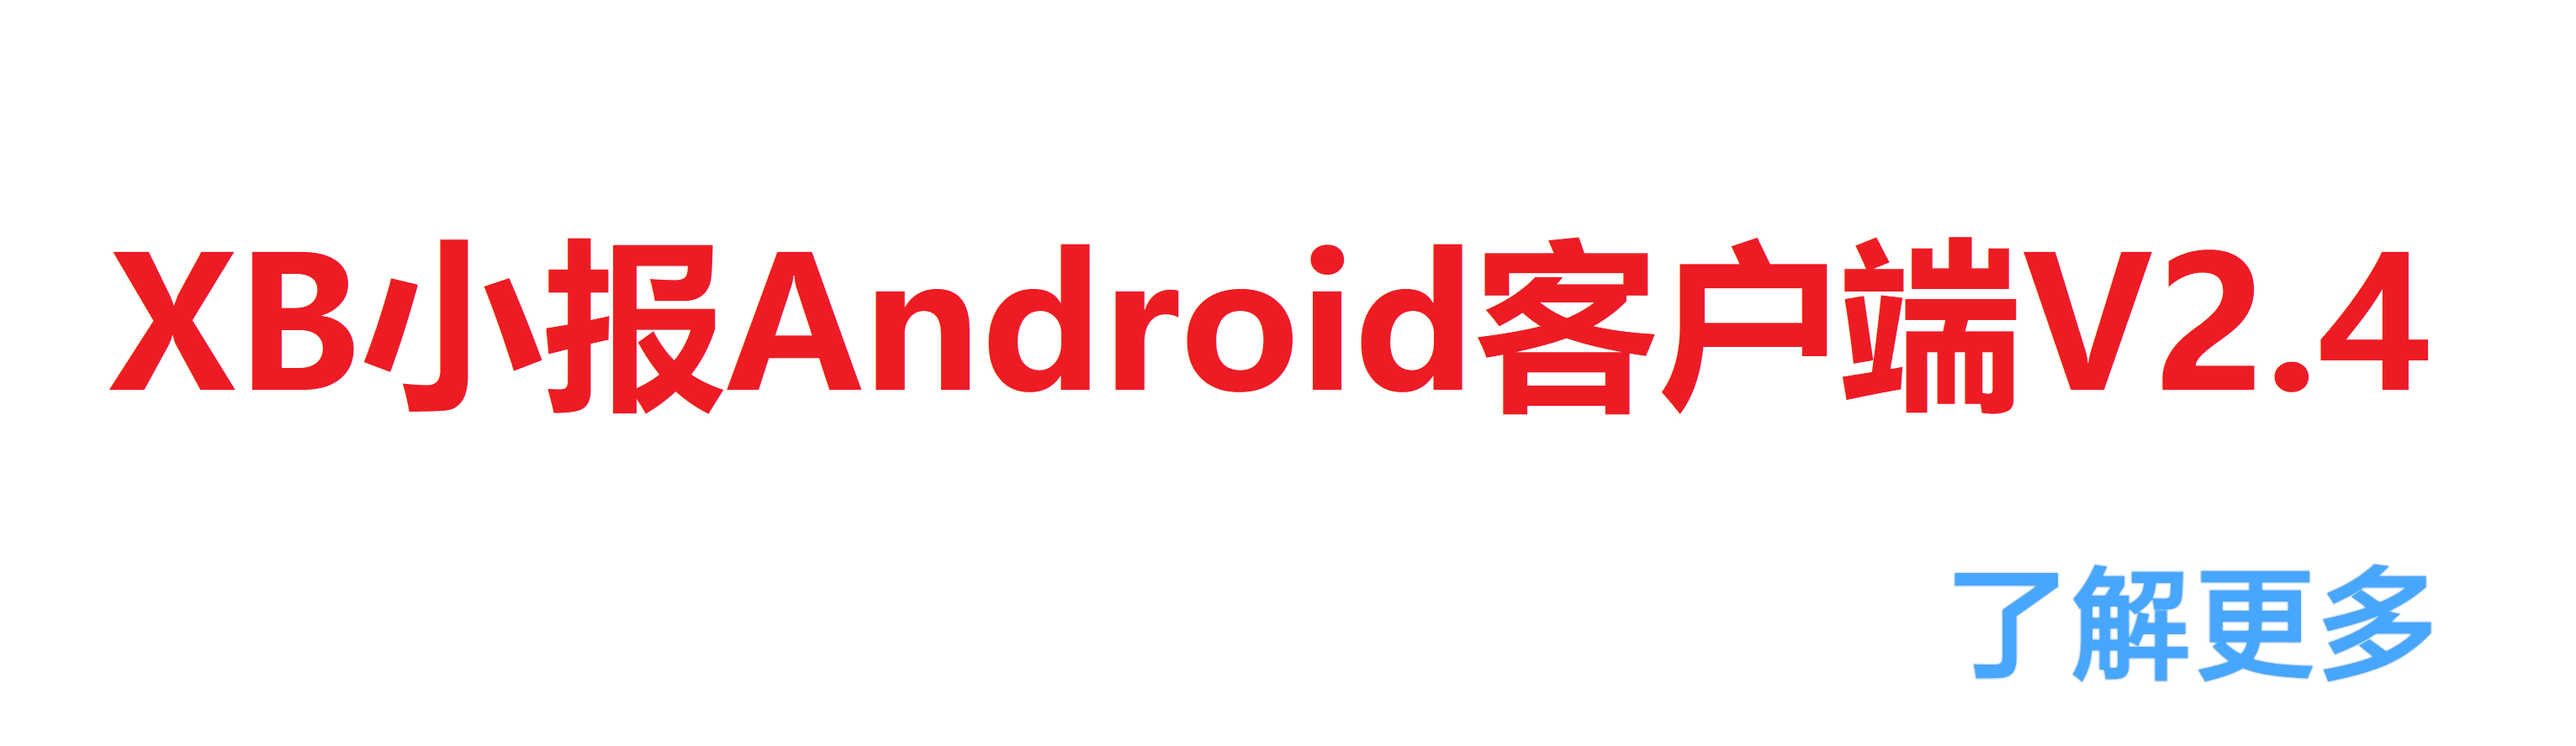
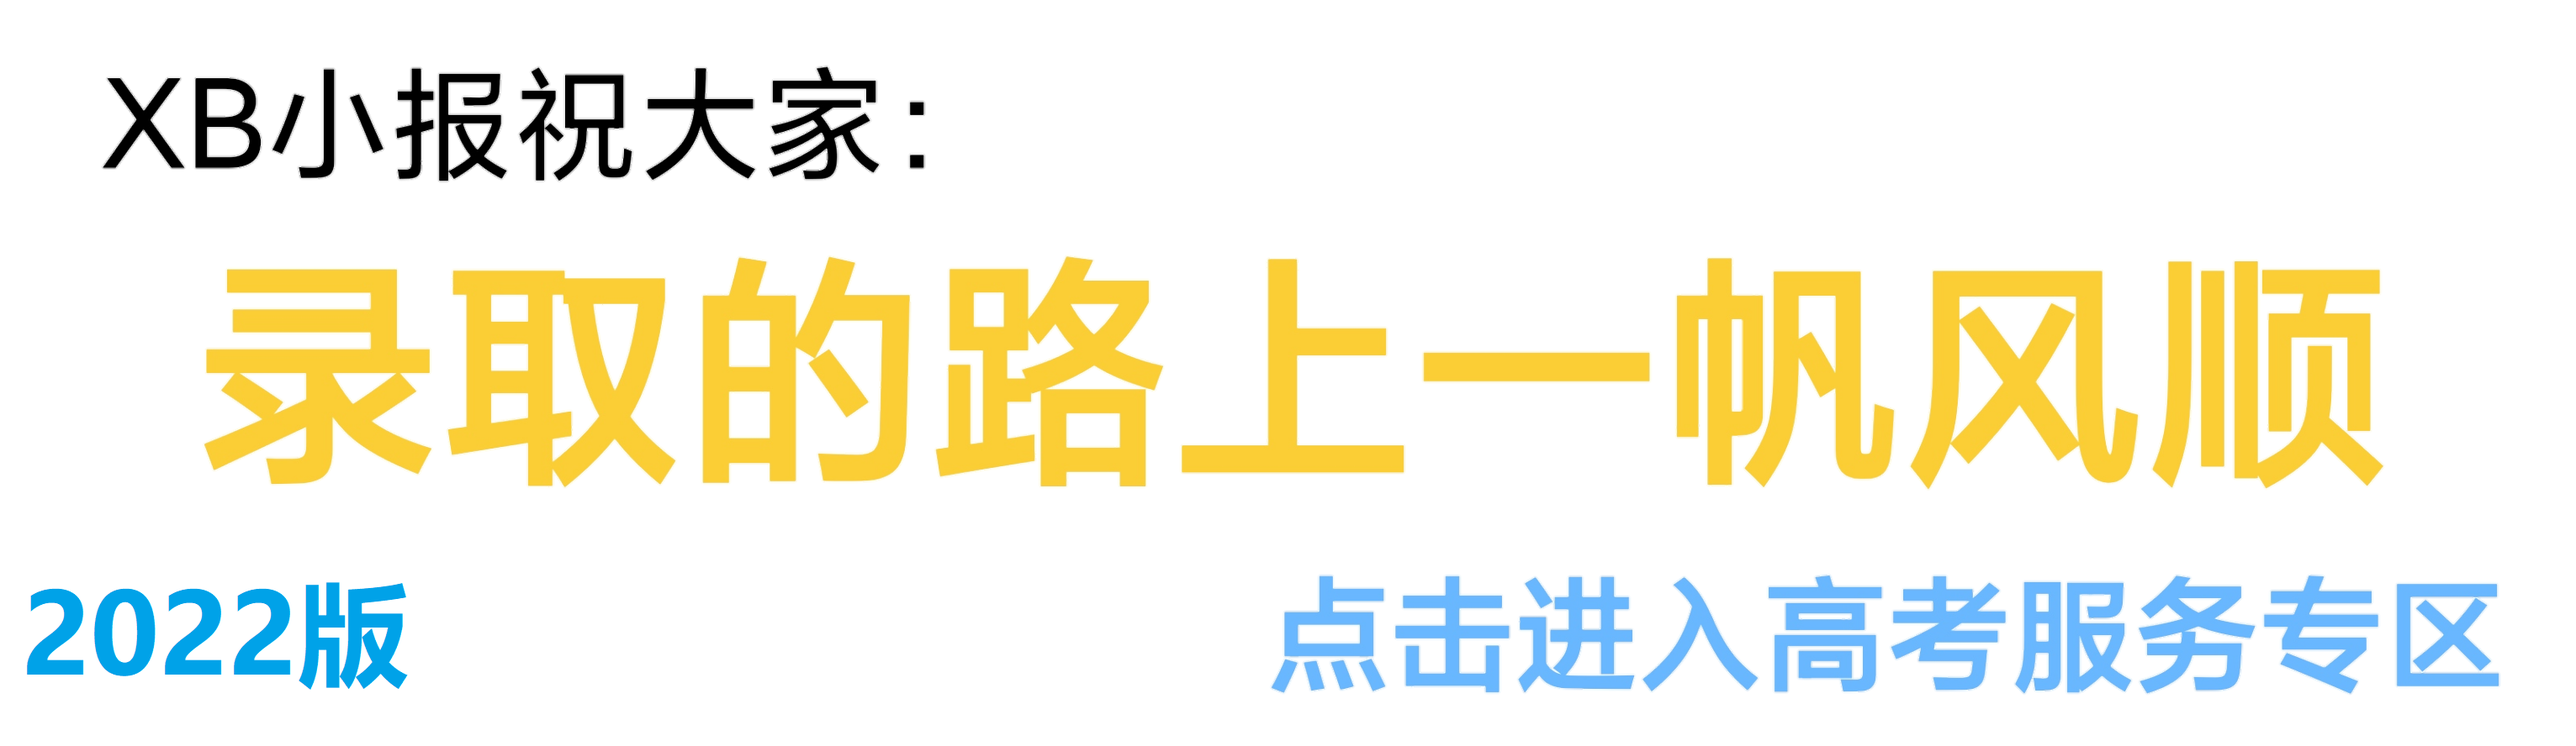
更新至2.4.0528rev1.92版本

diff --git a/banner.html b/banner.html
@@ -1,112 +1,35 @@
 <!DOCTYPE html>
 <html>
 	<head>
-	<title>XB小报 - V2.4宣传页</title>
+	<title>XB小报 - 高考服务专区（2022）</title>
     <link rel="stylesheet" type="text/css" href="style.css" />
     </head>
-    <body>
-    <div style="text-align:center;font-size:50px;font-weight:900">
-    XB小报V2.4<br>沟通无限
+    <body onload="checkxbclient()">
+    <div style="text-align:center;font-size:60px;font-weight:900">
+    高考服务
     <hr />
-<div style="text-align:left;font-size:13px;font-weight:1">
-新版本更新内容<br>
-<div style="text-align:left;font-size:20px;font-weight:1">
-1.XB小报V2.4：新风格，新启航！<br>
-2.新年：祝大家虎年如虎添翼，好运滚滚来！<br>
-3.新增：主页经过一轮重写，功能更多了<br>
-4.新增：全新账号系统上线测试<br>
-5.新增：现在，你可以屏蔽主页弹出的某一条公告了<br>
-6.新增：2.4大版本宣传：沟通无限<br>
-7.优化：主页彩蛋按钮配色优化<br>
-8.优化：主页时间问候语时间范围微调<br>
-9.优化：武理工具的一轮优化<br>
-10.优化：工具箱某些文案调整<br>
-11.优化：开发者工具新增查询被屏蔽的主页公告id<br>
-12.优化：主页一言加载效果优化<br>
-13.优化：开屏图片修改并优化比例<br>
-14.优化：新增了一些需要翻译的文字的三种翻译<br>
-15.优化：优化了一些其他影响稳定性的问题<br>
-1.新增：Web模块昵称现在可以从主APP获取了<br>
-2.优化：调宽了账户系统用户名和密码的长度范围<br>
-3.优化：对昵称的长度做出限制：小于15字符<br>
-4.优化：分离了一些代码，运行更流畅<br>
-5.优化：首页布局调整<br>
-6.优化：优化了其他的一些影响稳定性的问题<br>
-1.新增：适配Material You设计风格<br>
-2.新增：主页一言现在可以长按复制了<br>
-3.优化：优化了一些其他影响稳定性的问题<br>
-1.新增：账号系统现在支持更改密码和提交、撤回注销申请了<br>
-2.优化：Web模块部分功能优化<br>
-3.优化：检查更新弹窗适配最新的设计风格<br>
-4.优化：修复了切换横屏模式时发生闪退的问题<br>
-5.优化：去掉了首次启动时的网络检测<br>
-6.优化：优化了一些其他影响稳定性的问题<br>
-1.新增：管理员系统<br>
-2.优化：优化应用目录结构，使用更稳定<br>
-3.优化：账号系统优化<br>
-4.优化：优化了一些其他影响稳定性的问题<br>
-1.新增：登录账号后可以在不同设备间同步昵称了，支持冲突检查<br>
-2.新增：首次进入页面、设置更改昵称页面适配昵称同步系统<br>
-3.优化：更正了上个版本遗留的文案问题<br>
-4.优化：服务器中，ZH服务器选项替换为最新的服务器地址<br>
-5.优化：账号系统页面盾牌标志清晰度UP!UP!<br>
-6.优化：优化了一些其他影响稳定性的问题<br>
-1.优化：断网时账号页面的处理流程<br>
-2.优化：解决了昵称冲突时提示弹窗弹出两次的问题<br>
-3.优化：校园工具箱的一个nc问题<br>
-4.优化：优化了一些其他影响稳定性的问题<br>
-1.优化：优化了一些其他影响稳定性的问题<br>
-1.新增：登录页面新增同意协议复选框<br>
-2.新增：登录页面新增“遇到问题？”选项<br>
-3.新增：新增账号系统使用指南（入口即本次更新日志第2条）<br>
-4.优化：调整了部分请求的user-agent<br>
-5.优化：升级targetSdkVersion至32<br>
-6.优化：优化了一些其他影响稳定性的问题<br>
-1.新增：现在，主页支持全局变灰了<br>
-2.新增：开发者模式下可以查询到更详细的构建信息了<br>
-3.优化：开发者模式安全认证可以在设置中打开/关闭了<br>
-4.优化：优化了断网或手动关闭情况下主页一言的复制功能<br>
-5.优化：优化了主模块内页面加载错误时的回调，现在可以正常返回了<br>
-6.优化：优化了一些其他影响稳定性的问题<br>
-1.新增：夜间模式上线啦！再也不用担心晚上用太亮啦~（目前仅支持跟随系统切换）<br>
-2.新增：长按主页一言流程新增弹窗提示，支持到浏览器中查看该条一言<br>
-3.优化：为了配合夜间模式优化了一大————批素材<br>
-4.优化：AGP升级至7.1.3<br>
-5.优化：优化了一些其他影响稳定性的问题<br>
-1.新增：一言服务器现在可以在国内/国际之间切换了<br>
-2.新增：设置页部分选项变为部分情况可用<br>
-3.优化：修复了activity重建时APP部分按钮不可用/闪退的BUG<br>
-4.优化：智慧物联默认值优化<br>
-5.优化：优化了一些其他影响稳定性的问题<br>
-
-<hr/>
-
-<div style="text-align:left;font-size:13px;font-weight:1">
-ZH的例行碎碎念<br>
-<div style="text-align:left;font-size:20px;font-weight:1">
-新年伊始，祝星河长明，万事顺遂！<br>
-欢迎大家使用XB小报V2.4版本~<br>
-在本次大版本更新中，我们隆重推出了XB账号系统，虽然目前仅支持注册，登录等动作，但我们还将以此来开发更多功能，正如本次大版本：沟通无限，我相信账号系统会是大家沟通的一座桥梁。<br>
-在这次更新中，由于涉及主页多页面，我们再次重写了首页layout，虽然看起来变化不大，但功能性和稳定性均有一定的提高。<br>
-这次更新我们还解决了一些遗留了许久的问题（因为3个多月没更新，发现了很多BUG没有修改），如果大家还发现了BUG，欢迎通过关于页面的联系方式联系我提交BUG~<br>
-最后，今天是小年，提前祝大家新年快乐，心想事成~我们下个大版本更新再见~<br>
-<div style="text-align:right;font-size:20px;font-weight:1">
-ZH<br>
-2022.1.25<br>
-<div style="text-align:left;font-size:20px;font-weight:1">
-欸嘿，加一段：<br>
-2.4版本的更新目标原本是Material You和账号系统齐头并进，但由于一些原因（ZH忘记看官方文档），导致Material You适配遇到了一些问题，我们本着让大家抢先体验新功能的目的发布了2.4的第一个版本。现在，2.4版本的全部大型新功能已经全部完成开发，我们也发布了2.4.0206rev1.83版本，希望大家用的开心哦~<br>
-另：工具箱、开发者工具中的ping工具以及设置页中的各个弹窗（更改昵称弹窗除外）目前还未适配最新设计风格（大概率不会适配了，因为是成套的theme）。<br>
-<div style="text-align:right;font-size:20px;font-weight:1">
-ZH<br>
-2022.2.6<br>
-<hr/>
-
-<div style="text-align:left;font-size:13px;font-weight:1">
-写在最后<br>
-<div style="text-align:left;font-size:20px;font-weight:1">
-感谢大家下载使用XB小报APP！<br>
+    <script src="banner/gaokaojs.js"></script>
+    <div style="text-align:left;font-size:18px;font-weight:100">
+   <img height="25" src="banner/check.png" style="vertical-align:middle"/>查分/查录取<br>
+      <div style="text-align:left;font-size:20px;font-weight:100">
+  吉林省教育考试院①<input type="image" height="25" src="banner/export.png" style="vertical-align:middle" onclick="jyksy1()"/><br>
+  吉林省教育考试院②<input type="image" height="25" src="banner/export.png" style="vertical-align:middle" onclick="jyksy2()"/><br>
+  吉林教育电视台<input type="image" height="25" src="banner/export.png" style="vertical-align:middle" onclick="jydst()"/><br>
+  2021年信息：分数查询于6月23日开放；录取结果（一批A段）于7月23日出结果<br>
+  	    <div style="text-align:left;font-size:18px;font-weight:100">
+   <img height="25" src="banner/wccx.png" style="vertical-align:middle"/>录取信息<br>
+  <div style="text-align:left;font-size:20px;font-weight:100">
+  各批次录取时间表（2021）<input type="image" height="25" src="banner/export.png" style="vertical-align:middle" onclick="yfydcx()"/><br>
+    <div style="text-align:left;font-size:18px;font-weight:100">
+   <img height="25" src="banner/zhiyuan.png" style="vertical-align:middle"/>志愿助手<br>
+  <div style="text-align:left;font-size:20px;font-weight:100">
+  院校库（由教育部阳光高考网提供）<input type="image" height="25" src="banner/export.png" style="vertical-align:middle" onclick="yxkyggk()"/><br>
+  专业库（由教育部阳光高考网提供）<input type="image" height="25" src="banner/export.png" style="vertical-align:middle" onclick="zykyggk()"/><br>
+  吉林省高考志愿填报系统<input type="image" height="25" src="banner/export.png" style="vertical-align:middle" onclick="gkzyjleea()"/><br>
+  吉林省招生指南（下册）（2021）<input type="image" height="25" src="banner/export.png" style="vertical-align:middle" onclick="zsznxc()"/><br>
         <hr/>
+        注：本年度大部分功能暂未上线，如有消息我们会第一时间更新~<br>
+        <hr />
        <div style="text-align:center;font-size:18px;font-weight:1">
 <a href="http://zhanghe56.m.icoc.me" target=_blank>XB小报官方网站</a><p>
 based on html<img width="25" height="25" src="gitee.jpg" style="vertical-align:middle"/><p>
@@ -116,7 +39,7 @@ ZH's team
 <p id="actually" style="display:none">(其实只有ZH一个人)<button type="button" onclick="closeFunction()" >
 收起
 </button></p>
-白色太难看？来，<button onclick="setColor()"class="button2">给点颜色</button>
+祝大家金榜题名！来，<button onclick="setColor()"class="button2">给点颜色</button>
 <div id="results"></div><p>
 <script src="jsallonline.js"></script>
     <script src="nightly.js" charset="utf-8"></script>

diff --git a/activity/ver2.4/banner.html b/activity/ver2.4/banner.html
@@ -1,0 +1,144 @@
+<!DOCTYPE html>
+<html>
+	<head>
+	<title>XB小报 - V2.4宣传页</title>
+    <link rel="stylesheet" type="text/css" href="style.css" />
+    </head>
+    <body>
+    <div style="text-align:center;font-size:50px;font-weight:900">
+    XB小报V2.4<br>沟通无限
+    <hr />
+<div style="text-align:left;font-size:13px;font-weight:1">
+新版本更新内容<br>
+<div style="text-align:left;font-size:20px;font-weight:1">
+1.XB小报V2.4：新风格，新启航！<br>
+2.新年：祝大家虎年如虎添翼，好运滚滚来！<br>
+3.新增：主页经过一轮重写，功能更多了<br>
+4.新增：全新账号系统上线测试<br>
+5.新增：现在，你可以屏蔽主页弹出的某一条公告了<br>
+6.新增：2.4大版本宣传：沟通无限<br>
+7.优化：主页彩蛋按钮配色优化<br>
+8.优化：主页时间问候语时间范围微调<br>
+9.优化：武理工具的一轮优化<br>
+10.优化：工具箱某些文案调整<br>
+11.优化：开发者工具新增查询被屏蔽的主页公告id<br>
+12.优化：主页一言加载效果优化<br>
+13.优化：开屏图片修改并优化比例<br>
+14.优化：新增了一些需要翻译的文字的三种翻译<br>
+15.优化：优化了一些其他影响稳定性的问题<br>
+1.新增：Web模块昵称现在可以从主APP获取了<br>
+2.优化：调宽了账户系统用户名和密码的长度范围<br>
+3.优化：对昵称的长度做出限制：小于15字符<br>
+4.优化：分离了一些代码，运行更流畅<br>
+5.优化：首页布局调整<br>
+6.优化：优化了其他的一些影响稳定性的问题<br>
+1.新增：适配Material You设计风格<br>
+2.新增：主页一言现在可以长按复制了<br>
+3.优化：优化了一些其他影响稳定性的问题<br>
+1.新增：账号系统现在支持更改密码和提交、撤回注销申请了<br>
+2.优化：Web模块部分功能优化<br>
+3.优化：检查更新弹窗适配最新的设计风格<br>
+4.优化：修复了切换横屏模式时发生闪退的问题<br>
+5.优化：去掉了首次启动时的网络检测<br>
+6.优化：优化了一些其他影响稳定性的问题<br>
+1.新增：管理员系统<br>
+2.优化：优化应用目录结构，使用更稳定<br>
+3.优化：账号系统优化<br>
+4.优化：优化了一些其他影响稳定性的问题<br>
+1.新增：登录账号后可以在不同设备间同步昵称了，支持冲突检查<br>
+2.新增：首次进入页面、设置更改昵称页面适配昵称同步系统<br>
+3.优化：更正了上个版本遗留的文案问题<br>
+4.优化：服务器中，ZH服务器选项替换为最新的服务器地址<br>
+5.优化：账号系统页面盾牌标志清晰度UP!UP!<br>
+6.优化：优化了一些其他影响稳定性的问题<br>
+1.优化：断网时账号页面的处理流程<br>
+2.优化：解决了昵称冲突时提示弹窗弹出两次的问题<br>
+3.优化：校园工具箱的一个nc问题<br>
+4.优化：优化了一些其他影响稳定性的问题<br>
+1.优化：优化了一些其他影响稳定性的问题<br>
+1.新增：登录页面新增同意协议复选框<br>
+2.新增：登录页面新增“遇到问题？”选项<br>
+3.新增：新增账号系统使用指南（入口即本次更新日志第2条）<br>
+4.优化：调整了部分请求的user-agent<br>
+5.优化：升级targetSdkVersion至32<br>
+6.优化：优化了一些其他影响稳定性的问题<br>
+1.新增：现在，主页支持全局变灰了<br>
+2.新增：开发者模式下可以查询到更详细的构建信息了<br>
+3.优化：开发者模式安全认证可以在设置中打开/关闭了<br>
+4.优化：优化了断网或手动关闭情况下主页一言的复制功能<br>
+5.优化：优化了主模块内页面加载错误时的回调，现在可以正常返回了<br>
+6.优化：优化了一些其他影响稳定性的问题<br>
+1.新增：夜间模式上线啦！再也不用担心晚上用太亮啦~（目前仅支持跟随系统切换）<br>
+2.新增：长按主页一言流程新增弹窗提示，支持到浏览器中查看该条一言<br>
+3.优化：为了配合夜间模式优化了一大————批素材<br>
+4.优化：AGP升级至7.1.3<br>
+5.优化：优化了一些其他影响稳定性的问题<br>
+1.新增：一言服务器现在可以在国内/国际之间切换了<br>
+2.新增：设置页部分选项变为部分情况可用<br>
+3.优化：修复了activity重建时APP部分按钮不可用/闪退的BUG<br>
+4.优化：智慧物联默认值优化<br>
+5.优化：优化了一些其他影响稳定性的问题<br>
+
+<hr/>
+
+<div style="text-align:left;font-size:13px;font-weight:1">
+ZH的例行碎碎念<br>
+<div style="text-align:left;font-size:20px;font-weight:1">
+新年伊始，祝星河长明，万事顺遂！<br>
+欢迎大家使用XB小报V2.4版本~<br>
+在本次大版本更新中，我们隆重推出了XB账号系统，虽然目前仅支持注册，登录等动作，但我们还将以此来开发更多功能，正如本次大版本：沟通无限，我相信账号系统会是大家沟通的一座桥梁。<br>
+在这次更新中，由于涉及主页多页面，我们再次重写了首页layout，虽然看起来变化不大，但功能性和稳定性均有一定的提高。<br>
+这次更新我们还解决了一些遗留了许久的问题（因为3个多月没更新，发现了很多BUG没有修改），如果大家还发现了BUG，欢迎通过关于页面的联系方式联系我提交BUG~<br>
+最后，今天是小年，提前祝大家新年快乐，心想事成~我们下个大版本更新再见~<br>
+<div style="text-align:right;font-size:20px;font-weight:1">
+ZH<br>
+2022.1.25<br>
+<div style="text-align:left;font-size:20px;font-weight:1">
+欸嘿，加一段：<br>
+2.4版本的更新目标原本是Material You和账号系统齐头并进，但由于一些原因（ZH忘记看官方文档），导致Material You适配遇到了一些问题，我们本着让大家抢先体验新功能的目的发布了2.4的第一个版本。现在，2.4版本的全部大型新功能已经全部完成开发，我们也发布了2.4.0206rev1.83版本，希望大家用的开心哦~<br>
+另：工具箱、开发者工具中的ping工具以及设置页中的各个弹窗（更改昵称弹窗除外）目前还未适配最新设计风格（大概率不会适配了，因为是成套的theme）。<br>
+<div style="text-align:right;font-size:20px;font-weight:1">
+ZH<br>
+2022.2.6<br>
+<hr/>
+
+<div style="text-align:left;font-size:13px;font-weight:1">
+写在最后<br>
+<div style="text-align:left;font-size:20px;font-weight:1">
+感谢大家下载使用XB小报APP！<br>
+        <hr/>
+       <div style="text-align:center;font-size:18px;font-weight:1">
+<a href="http://zhanghe56.m.icoc.me" target=_blank>XB小报官方网站</a><p>
+based on html<img width="25" height="25" src="gitee.jpg" style="vertical-align:middle"/><p>
+powered by<button type="button" onclick="realFunction()"class="button2">
+ZH's team
+</button><p>
+<p id="actually" style="display:none">(其实只有ZH一个人)<button type="button" onclick="closeFunction()" >
+收起
+</button></p>
+白色太难看？来，<button onclick="setColor()"class="button2">给点颜色</button>
+<div id="results"></div><p>
+<script src="jsallonline.js"></script>
+    <script src="nightly.js" charset="utf-8"></script>
+    <script type="text/javascript">
+      var Nightly = new Nightly(
+        {
+          classes: [
+            {
+              apply: 'redify',
+              to: '.upper',
+            },
+            {
+              apply: 'greenfy',
+              to: '.lower',
+            },
+          ],
+        },
+        true
+      );
+      document.getElementById('btn').addEventListener('click', function () {
+        Nightly.toggle();
+      });
+    </script>
+</body>
+</html>

diff --git a/jsallonline.js b/jsallonline.js
@@ -1,9 +1,9 @@
 function jumptonew() {
-window.location.href="https://wwm.lanzouw.com/iFKoi03zwsih"}
+window.location.href="https://wwm.lanzouw.com/itEmt05kyipi"}
 function checkvision() {
 sessionStorage.newvision=("99999");
-sessionStorage.updateday=("2021.08.06");
-sessionStorage.newvisionname=("即将停用");
+sessionStorage.updateday=("2022.05.29");
+sessionStorage.newvisionname=("已经停用");
 window.XB.actionFromJsWithParam('当前版本号' + sessionStorage.visionname + "." + sessionStorage.visioncode);
  if (sessionStorage.visioncode==sessionStorage.newvision) {
      if(sessionStorage.visionname.indexOf(sessionStorage.newvisionname) !=-1){
@@ -28,7 +28,7 @@ window.XB.actionFromJsWithParam('当前版本号' + sessionStorage.visionname + 
      else
      {
  	  notie.confirm({
-          text: '不是最新版本！点击确定去更新！本页面即将停用，本页面更新日期：' + sessionStorage.updateday,
+          text: '不是最新版本！点击确定去更新！本更新系统已经停用，请尽快升级以使用新版更新系统。本页面更新日期：' + sessionStorage.updateday,
           cancelCallback: function () {
        				document.getElementById("log_msg").innerHTML=("不是最新版本，用户取消了下载动作，最新版本号：" + sessionStorage.newvision + "。本页面即将停用，请尽快升级。本页面更新日期：" + sessionStorage.updateday);
           },

diff --git a/activity.html b/activity.html
@@ -4,13 +4,14 @@
 	<title>XB小报 - 活动中心</title>
     <link rel="stylesheet" type="text/css" href="style.css" />
     </head>
-    <body onload="checkxbclient()">
+    <body>
     <div style="text-align:center;font-size:60px;font-weight:900">
     活动中心
     </div>
     <hr />
     <div style="text-align:center;font-size:20px;font-weight:100">
 <a id="banner_url" href="banner.html"><img id="banner" src="banner.png" width="350" alt="banner" /></a><p>
+<a id="banner_gaokao" href="activity/ver2.4/banner.html"><img id="banner" src="activity/ver2.4/banner.png" width="350" alt="banner" /></a><p>
 <a id="banner_fashion2nd" href="activity/fashion2nd/banner.html"><img id="banner" src="activity/fashion2nd/banner.png" width="350" alt="banner" /></a><p>
 <a id="banner_gaokao" href="activity/gaokao/banner.html"><img id="banner" src="activity/gaokao/banner.png" width="350" alt="banner" /></a><p>
 <input type="image" width="350" src="activity/img/fashion.png" style="vertical-align:middle" onclick="gamefashion()"/><p>

diff --git a/banner/gaokaojs.js b/banner/gaokaojs.js
@@ -1,0 +1,31 @@
+function jyksy1(){
+window.XB.openwithbrowser('http://www.jleea.edu.cn/');
+}
+
+function jyksy2(){
+window.XB.openwithbrowser('http://www.jleea.com.cn/');
+}
+
+function jydst(){
+window.XB.openwithbrowser('http://www.jletv.cn/');
+}
+
+function yfydcx(){
+window.XB.openwithbrowser('http://www.jleea.com.cn/2021/0703/3802.html');
+}
+
+function yxkyggk(){
+window.XB.openwithbrowser('https://gaokao.chsi.com.cn/wap/sch/schlist');
+}
+
+function zykyggk(){
+window.XB.openwithbrowser('https://gaokao.chsi.com.cn/zyk/zybk/wap/');
+}
+
+function zsznxc(){
+window.XB.openwithbrowser('http://www.jleea.com.cn/2021/0621/3776.html');
+}
+
+function gkzyjleea(){
+window.XB.openwithbrowser('https://gkzy.jleea.com.cn/');
+}

diff --git a/ziyuan.html b/ziyuan.html
@@ -129,6 +129,8 @@ XB小报For Android专区</div>
 
 <p>点我<a href="https://wwm.lanzouw.com/iFKoi03zwsih" target="_blank">下载安卓2.4.0429rev1.91</a></p>
 
+<p>点我<a href="https://wwm.lanzouw.com/itEmt05kyipi" target="_blank">下载安卓2.4.0528rev1.92</a></p>
+
 <hr />
 <div style='text-align:center;font-size:36px;font-weight:900;color:red'>
 撸号大师For Windows专区</div>
